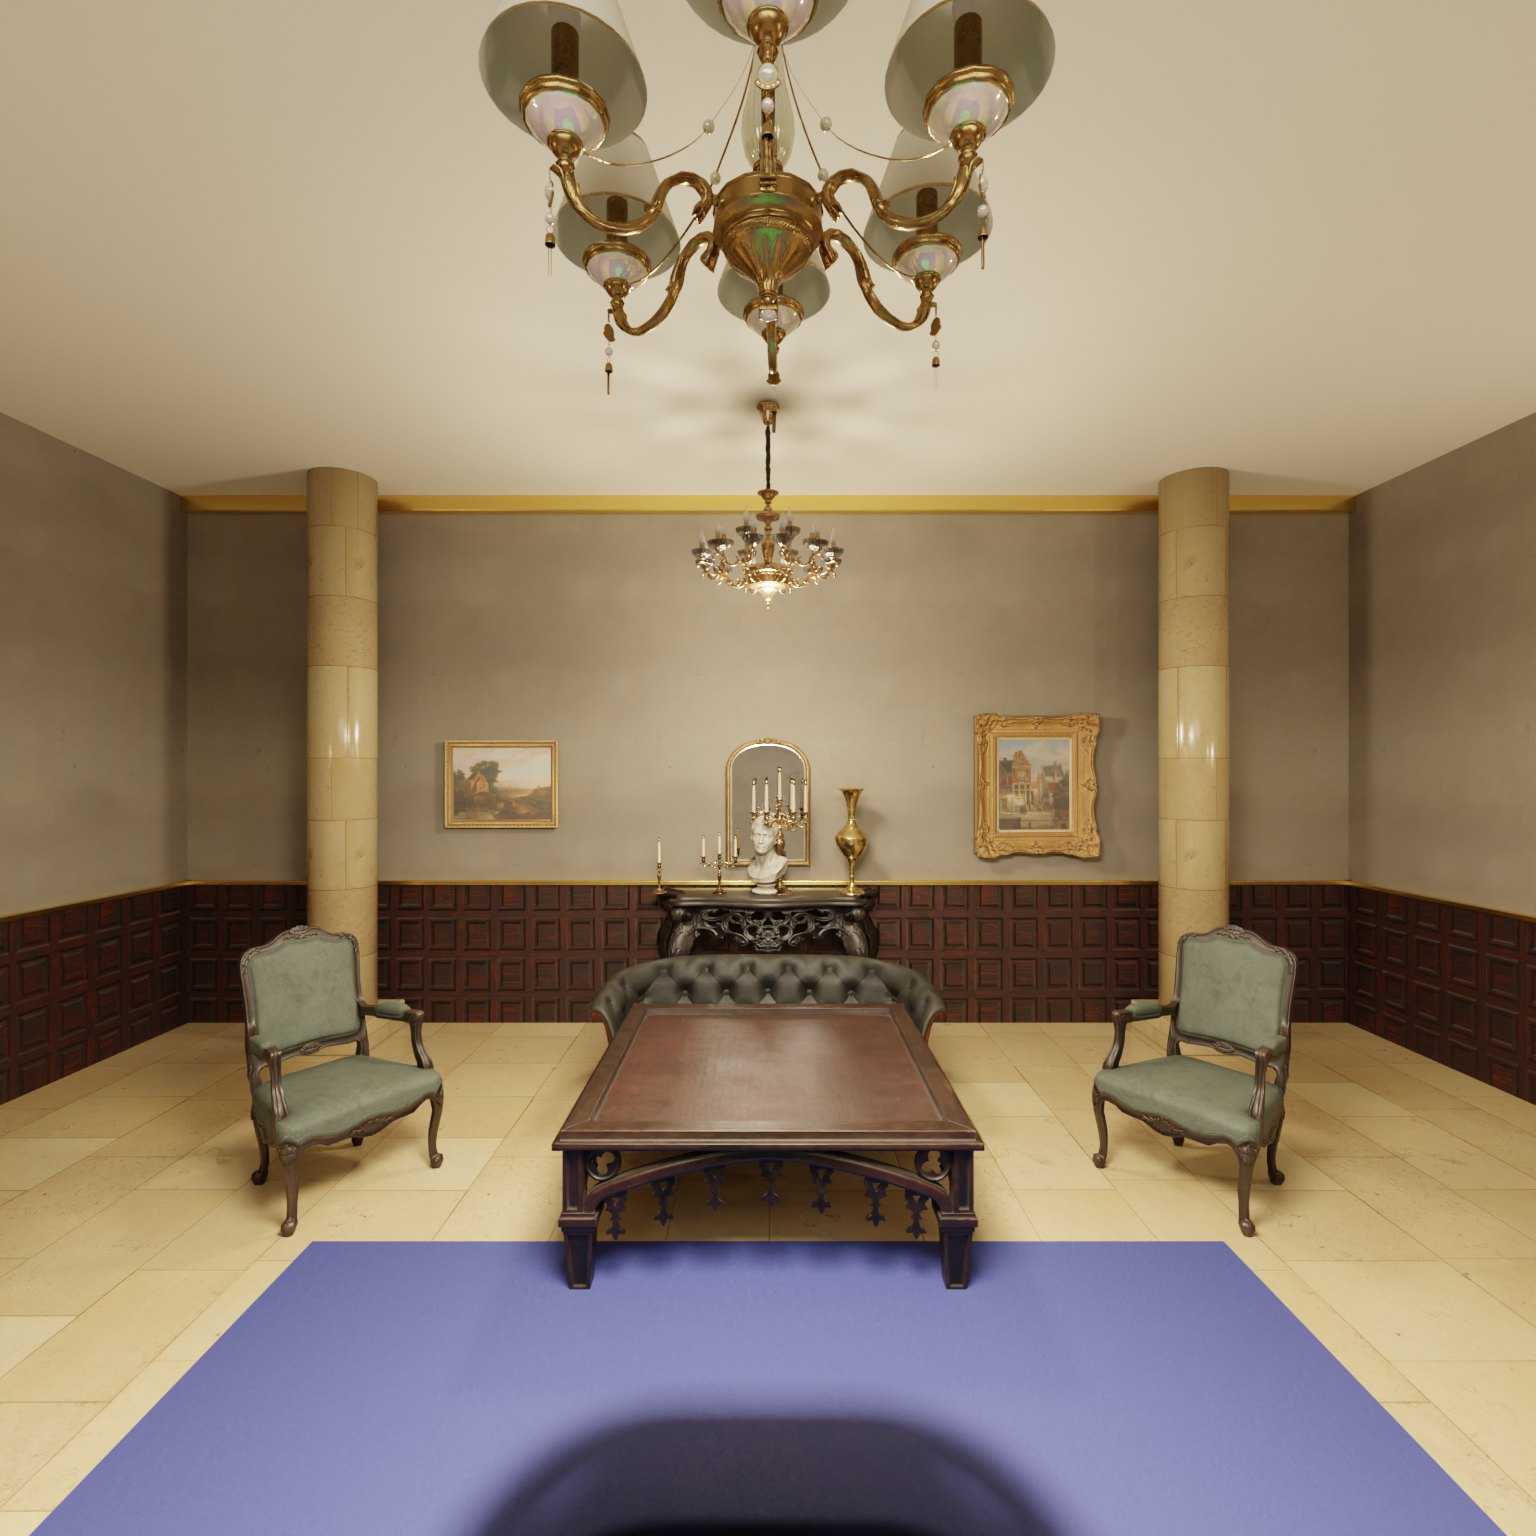
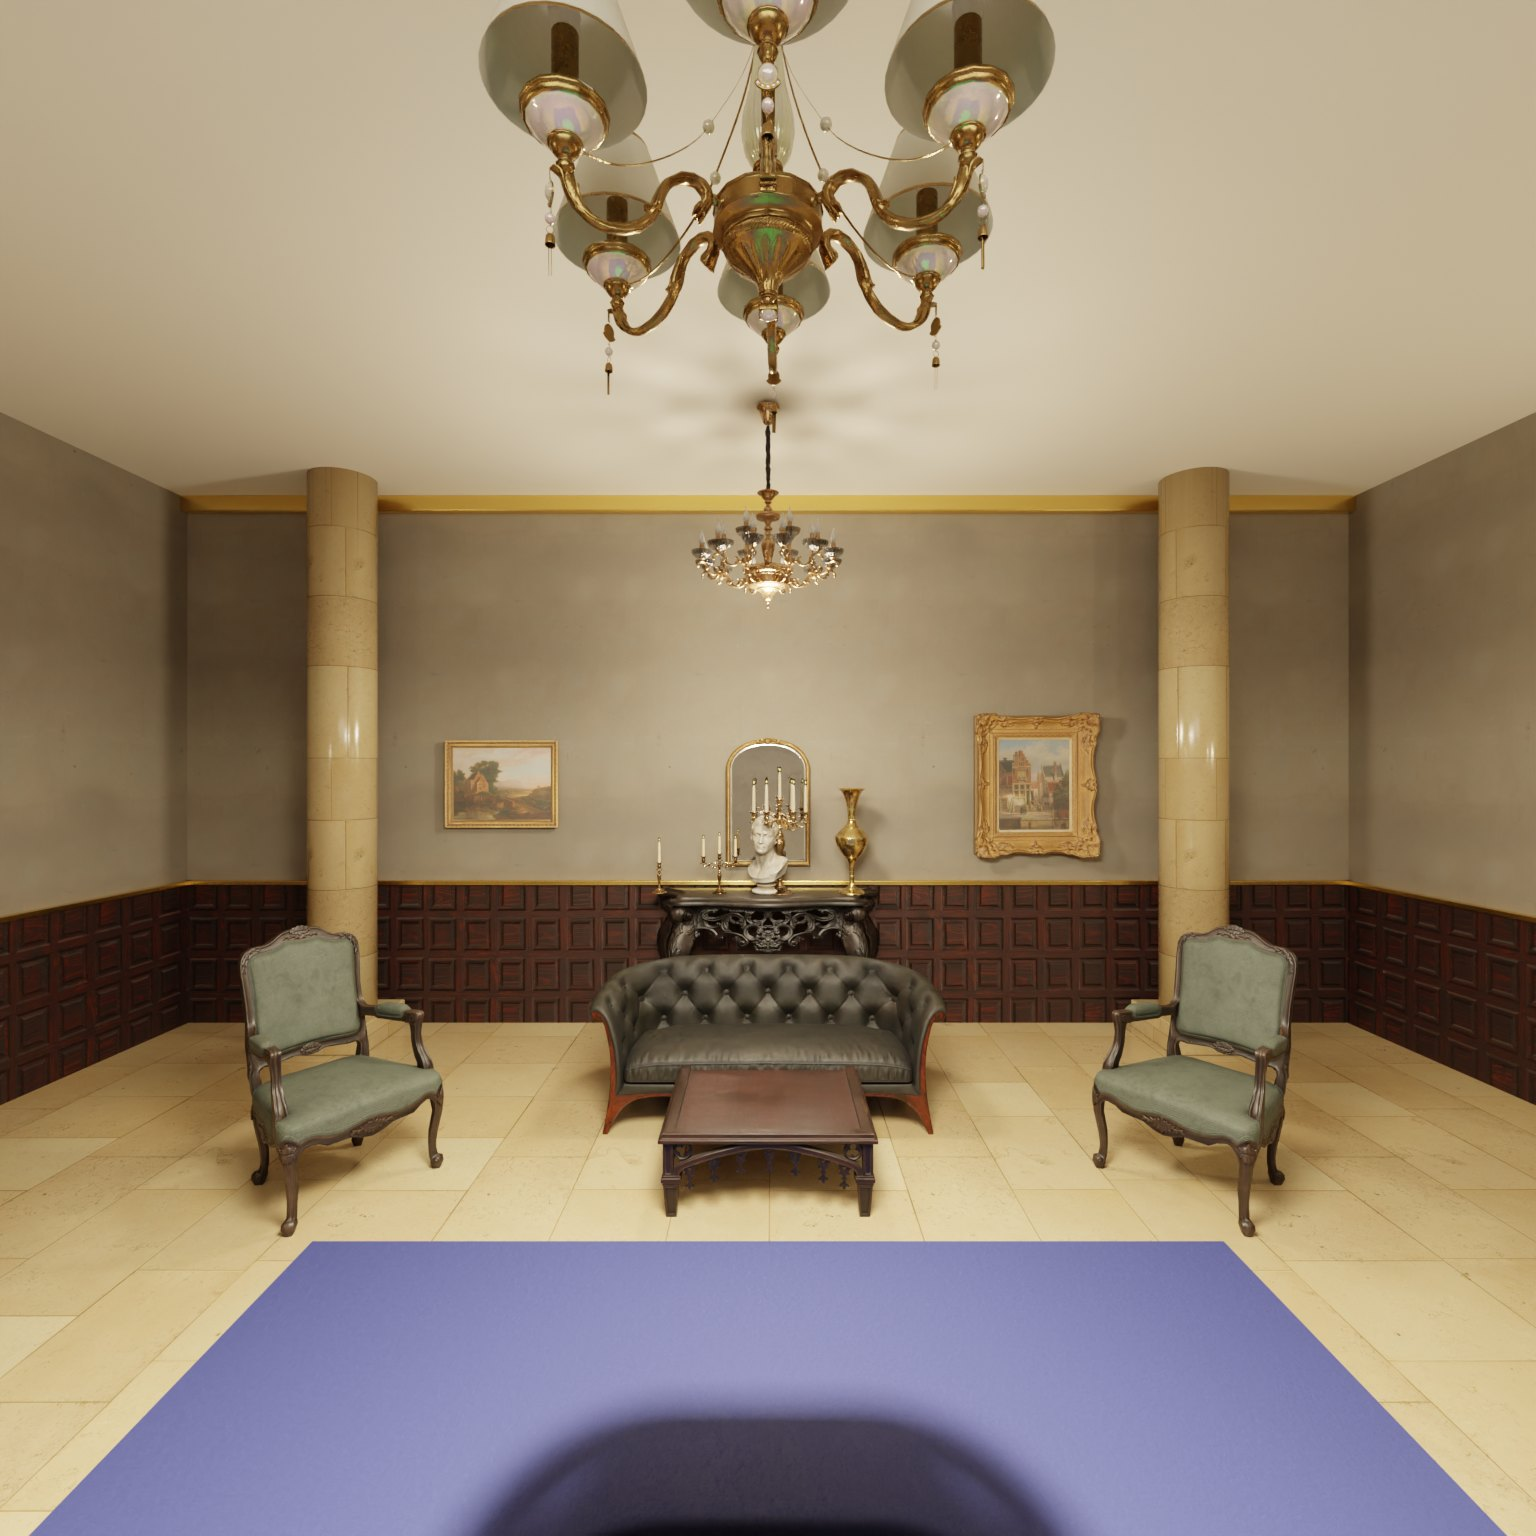
Mansion table: stand-in chairs, matching cam/mic buttons, smaller coffee table
- Seated figures do not wait for the chair model, so a late or failed load left
  them sitting on air. Built chairs now stand in after 2.5s or on a failed
  load, and step aside when the model lands.
- In the table rail, camera and mic are plain icon-and-label buttons like CHAT
  in every layout; the short-landscape cut-corner slab and the whole-button
  offline dim made them read as blank grey tiles.
- The Mansion's coffee table behind the partner is 60% size and tucked up to
  the sofa; the far-wall and floor views are re-rendered.

Changed region(s): [[0.3438, 0.6562, 0.6562, 0.8438]]

diff --git a/apps/web/src/three/cubeVenue.tsx b/apps/web/src/three/cubeVenue.tsx
@@ -9,7 +9,7 @@
  */
 import { useEffect, useMemo, useRef, useState } from 'react';
 import { useFrame, useThree } from '@react-three/fiber';
-import { Box3, type Group, Mesh, MeshStandardMaterial, type Object3D, type PointLight, RepeatWrapping, SRGBColorSpace, TextureLoader, VideoTexture } from 'three';
+import { Box3, BoxGeometry, Group, Mesh, MeshStandardMaterial, type Object3D, type PointLight, RepeatWrapping, SRGBColorSpace, TextureLoader, VideoTexture } from 'three';
 import { flickerAt, glowAt, venueLifeFor } from '../venueLife';
 import { pulseDue } from './framePulse';
 import { fx } from '../fx';
@@ -55,6 +55,57 @@ function ground(obj: Group, floorWorldY: number): void {
   obj.updateMatrixWorld(true);
   const box = new Box3().setFromObject(obj);
   obj.position.y += floorWorldY - box.min.y;
+}
+
+/** How long the seated figures may go without the chair model before built chairs stand in (ms). */
+export const CHAIR_STAND_IN_MS = 2500;
+/** Seat height of the built chair above the floor: the fleet standard the seated figures are posed to. */
+export const SIMPLE_CHAIR_SEAT = 0.49;
+/** Triangles in one built chair (seven boxes). */
+export const SIMPLE_CHAIR_TRIS = 7 * 12;
+
+/**
+ * A plain dining chair out of seven boxes — seat, back, back rail and four legs — facing +z like the
+ * chair model, feet on y = 0. It stands in wherever the model is not loaded (Low quality, or a failed
+ * load), so a seated figure always has something under it.
+ */
+export function buildSimpleChair(): Group {
+  const g = new Group();
+  g.name = 'simple-chair';
+  const wood = new MeshStandardMaterial({ color: '#2a1a12', roughness: 0.7 });
+  const pad = new MeshStandardMaterial({ color: '#3b2a44', roughness: 0.85 });
+  const box = (w: number, h: number, d: number, x: number, y: number, z: number, m: MeshStandardMaterial) => {
+    const mesh = new Mesh(new BoxGeometry(w, h, d), m);
+    mesh.position.set(x, y, z); mesh.castShadow = true; mesh.receiveShadow = true;
+    g.add(mesh);
+  };
+  const S = SIMPLE_CHAIR_SEAT;
+  box(0.5, 0.07, 0.5, 0, S - 0.035, 0, pad); // seat, top at S
+  box(0.5, 0.42, 0.06, 0, S + 0.33, -0.24, pad); // back pad
+  box(0.54, 0.06, 0.07, 0, S + 0.57, -0.24, wood); // top rail
+  for (const [x, z] of [[-0.22, -0.22], [0.22, -0.22], [-0.22, 0.22], [0.22, 0.22]] as const) {
+    const tall = z < 0; // rear legs run up into the back
+    const h = tall ? S + 0.56 : S - 0.07;
+    box(0.05, h, 0.05, x, h / 2, z, wood);
+  }
+  return g;
+}
+
+function addSimpleChairs(host: Group, spots: readonly { x: number; z: number; ry: number }[], skip: (spot: { x: number; z: number; ry: number }) => boolean): Group[] {
+  const out: Group[] = [];
+  for (const spot of spots) {
+    if (skip(spot)) continue;
+    const c = buildSimpleChair();
+    c.rotation.y = spot.ry; c.position.set(spot.x, STUDIO.floorY, spot.z);
+    host.add(c); out.push(c);
+  }
+  return out;
+}
+
+function disposeSimpleChair(g: Group): void {
+  const mats = new Set<MeshStandardMaterial>();
+  g.traverse((o) => { const m = o as Mesh; if (m.isMesh) { m.geometry.dispose(); mats.add(m.material as MeshStandardMaterial); } });
+  mats.forEach((m) => m.dispose());
 }
 
 export function useLocalTod(handNo: number) {
@@ -131,11 +182,21 @@ export default function CubeVenueRoom({ cfg, quality, handNo }: { cfg: CubeVenue
   }, [cfg, quality, lock.tod, invalidate]);
 
   useEffect(() => {
-    if (quality !== 'high' || !propsRef.current) return;
-    let dead = false; const added: Object3D[] = [];
+    if (quality !== 'high' || !propsRef.current) return; // Low seats no figures, so it stands no chairs either
+    let dead = false; const added: Object3D[] = []; const fallback: Group[] = [];
     const ktx2 = new KTX2Loader().setTranscoderPath('/assets/basis/').detectSupport(gl);
     const loader = new GLTFLoader(); loader.setMeshoptDecoder(MeshoptDecoder); loader.setKTX2Loader(ktx2);
     const load = (url: string) => new Promise<import('three').Group>((res, rej) => loader.load(url, (g) => res(g.scene as Group), undefined, rej));
+    // The seated figures do not wait for the chair model, and on a phone it can arrive late or not at all —
+    // which left them sitting on air (owner, 2026-11-13: "my opponents don't have chairs"). If the model is
+    // not in by CHAIR_STAND_IN_MS, or its load fails, built chairs stand in until (and unless) it lands.
+    const standIn = () => {
+      if (dead || !propsRef.current || added.length || fallback.length) return;
+      fallback.push(...addSimpleChairs(propsRef.current, cfg.chairSpots ?? studioSpots, (spot) => hideOwnChair && isOwnSeatSpot(spot, ownDir)));
+      invalidate();
+    };
+    const clearStandIn = () => { for (const g of fallback) { g.parent?.remove(g); disposeSimpleChair(g); } fallback.length = 0; };
+    const standInTimer = window.setTimeout(standIn, CHAIR_STAND_IN_MS);
     void (async () => {
       try {
         // This room's chair spots (a rendered room at a kit-chair venue brings its own); same loop, same own-chair guard.
@@ -143,13 +204,14 @@ export default function CubeVenueRoom({ cfg, quality, handNo }: { cfg: CubeVenue
         const chair = await load(`${CLASSIC}/chair.glb`);
         const lamp = cfg.pendants === false || rendered ? null : await load(`${CLASSIC}/lamp.glb`);
         if (dead || !propsRef.current) return; const host = propsRef.current;
+        window.clearTimeout(standInTimer); clearStandIn();
         for (const spot of CHAIR_SPOTS) { if (hideOwnChair && isOwnSeatSpot(spot, ownDir)) continue; const c = chair.clone(true) as Group; c.rotation.y = spot.ry; c.position.set(spot.x, 0, spot.z); c.traverse((o) => { const m = o as Mesh; if (m.isMesh) { m.castShadow = true; m.receiveShadow = true; } }); host.add(c); ground(c, STUDIO.floorY); added.push(c); }
         if (lamp) for (const x of [-STUDIO.lampX, STUDIO.lampX]) { const l = lamp.clone(true) as Group; l.position.set(x, 0, 0); l.traverse((o) => { const m = o as Mesh; if (m.isMesh) { m.castShadow = false; m.receiveShadow = true; } }); host.add(l); l.updateMatrixWorld(true); const box = new Box3().setFromObject(l); l.position.y += STUDIO.floorY + STUDIO.lampShadeBottom - box.min.y; added.push(l); }
         (window as unknown as { __bwmVenue?: unknown }).__bwmVenue = { id: cfg.id, fx: false, studio: true, room: cfg.slug, props: true, tod: lock.tod };
         invalidate();
-      } catch { /* shell stays */ }
+      } catch { window.clearTimeout(standInTimer); standIn(); /* the shell stays; nobody sits on air */ }
     })();
-    return () => { dead = true; for (const g of added) g.parent?.remove(g); ktx2.dispose(); };
+    return () => { dead = true; window.clearTimeout(standInTimer); for (const g of added) g.parent?.remove(g); clearStandIn(); ktx2.dispose(); };
   }, [cfg, quality, gl, invalidate, lock.tod, hideOwnChair, ownDir, rendered]);
 
   const w = STUDIO.roomX * 2;

diff --git a/apps/web/test/seat-chair-standin.test.ts b/apps/web/test/seat-chair-standin.test.ts
@@ -1,0 +1,70 @@
+/**
+ * Owner, 2026-11-13 (Mansion, iPhone landscape): "my opponents don't have chairs" and "the cam
+ * and mic buttons look pretty odd".
+ *
+ * Chairs: the seated figures do not wait for the chair model, so a late or failed load left them
+ * sitting on air. Built chairs now stand in after CHAIR_STAND_IN_MS or on a failed load, and step
+ * aside when the model lands.
+ * Rail: camera and mic are plain icon-and-label buttons like CHAT in every layout; offline only
+ * the icon and label dim, never the whole button.
+ */
+import { readFileSync } from 'node:fs';
+import { describe, expect, it } from 'vitest';
+import { Box3, type Mesh } from 'three';
+import { CHAIR_STAND_IN_MS, SIMPLE_CHAIR_SEAT, SIMPLE_CHAIR_TRIS, buildSimpleChair } from '../src/three/cubeVenue';
+
+const read = (p: string) => readFileSync(new URL(p, import.meta.url), 'utf8');
+
+describe('the built chair', () => {
+  const chair = buildSimpleChair();
+  chair.updateMatrixWorld(true);
+  const box = new Box3().setFromObject(chair);
+  const meshes: Mesh[] = [];
+  chair.traverse((o) => { if ((o as Mesh).isMesh) meshes.push(o as Mesh); });
+
+  it('stands on the floor and is chair-sized', () => {
+    expect(box.min.y).toBeCloseTo(0, 5);
+    expect(box.max.y).toBeGreaterThan(SIMPLE_CHAIR_SEAT + 0.4);
+    expect(box.max.y).toBeLessThan(1.3);
+    expect(box.max.x - box.min.x).toBeLessThan(0.7);
+  });
+
+  it('has its seat at the height the figures are posed to, and its back behind the sitter', () => {
+    const seat = meshes.find((m) => Math.abs(m.position.y + 0.035 - SIMPLE_CHAIR_SEAT) < 1e-6 && m.position.z === 0);
+    expect(seat).toBeTruthy();
+    // the model faces +z, so the back is at -z
+    expect(box.min.z).toBeLessThan(-0.24);
+    expect(meshes.filter((m) => m.position.y > SIMPLE_CHAIR_SEAT && m.position.z < 0).length).toBeGreaterThanOrEqual(2);
+  });
+
+  it('is cheap and casts a shadow', () => {
+    expect(meshes.length * 12).toBe(SIMPLE_CHAIR_TRIS);
+    expect(SIMPLE_CHAIR_TRIS).toBeLessThan(200);
+    expect(meshes.every((m) => m.castShadow)).toBe(true);
+  });
+});
+
+describe('stand-in wiring', () => {
+  const src = read('../src/three/cubeVenue.tsx');
+  it('stands in after a short wait and on a failed load, and steps aside for the model', () => {
+    expect(CHAIR_STAND_IN_MS).toBeGreaterThanOrEqual(1000);
+    expect(CHAIR_STAND_IN_MS).toBeLessThanOrEqual(5000);
+    expect(src).toContain('window.setTimeout(standIn, CHAIR_STAND_IN_MS)');
+    expect(src).toContain('} catch { window.clearTimeout(standInTimer); standIn();');
+    expect(src).toContain('window.clearTimeout(standInTimer); clearStandIn();');
+  });
+  it('still hides the viewer’s own chair', () => {
+    expect(src).toContain('addSimpleChairs(propsRef.current, cfg.chairSpots ?? studioSpots, (spot) => hideOwnChair && isOwnSeatSpot(spot, ownDir))');
+  });
+});
+
+describe('rail camera and mic', () => {
+  const css = read('../src/uiPass.css');
+  it('drop the cut-corner slab in the short layout too', () => {
+    expect(css).toMatch(/\.ctl-rail \.av-btn, \.table-screen\.short \.ctl-rail \.av-btn \{[^}]*clip-path: none;[^}]*background: transparent;/);
+  });
+  it('offline dims the icon and label, not the button', () => {
+    expect(css).toContain('.ctl-rail .av-bar.offline .av-btn { opacity: 1; filter: none; }');
+    expect(css).toContain('.ctl-rail .av-bar.offline .av-btn > * { opacity: .5; }');
+  });
+});

diff --git a/apps/web/src/uiPass.css b/apps/web/src/uiPass.css
@@ -396,3 +396,15 @@ aside.soc-panel .matchup-picker > h3 + p.soc-muted { display: none; }
 .rw-postgame .rw-moments { list-style: none; margin: 0; padding: 10px 14px 12px; display: grid; grid-template-columns: repeat(auto-fit, minmax(210px, 1fr)); gap: 8px; border-top: 1px solid rgba(255,255,255,.08); font-size: 13px; color: rgba(255,255,255,.9); }
 .rw-postgame .rw-moments li { margin: 0; padding: 9px 11px; border-radius: 9px; background: rgba(255,255,255,.055); box-shadow: inset 3px 0 0 rgba(255,211,90,.75); line-height: 1.3; }
 .rw-postgame .rw-moments.rw-turning li { font: 700 13px/1.25 var(--display); letter-spacing: .06em; text-transform: uppercase; box-shadow: inset 3px 0 0 #b98cff; }
+
+/* ---- Table rail: camera and mic match the chat button (owner, 2026-11-13: on a phone in
+   landscape they "look pretty odd" — two blank grey slabs). The short-layout rule gave them the
+   old tray's cut-corner block, and the offline dim faded the whole button, so over a bright room
+   each one read as an empty grey tile. In the rail they are plain icon-and-label buttons on the
+   rail's own panel, in every layout; offline only the icon and label dim. ---- */
+.ctl-rail .av-btn, .table-screen.short .ctl-rail .av-btn { width: 44px; height: 46px; border-radius: 10px; clip-path: none; background: transparent; box-shadow: none; display: flex; flex-direction: column; align-items: center; justify-content: center; gap: 2px; font-size: 17px; line-height: 1; color: var(--ink); }
+.ctl-rail .av-btn small { margin-top: 0; font-size: 8px; color: var(--muted); }
+.ctl-rail .av-btn.on { background: linear-gradient(180deg, var(--gold-hi), var(--gold-deep)); box-shadow: 0 0 14px rgba(var(--gold-rgb), .6); }
+.ctl-rail .av-btn.on small { color: #1d1204; }
+.ctl-rail .av-bar.offline .av-btn { opacity: 1; filter: none; }
+.ctl-rail .av-bar.offline .av-btn > * { opacity: .5; }

diff --git a/tools/blender/build_room.py b/tools/blender/build_room.py
@@ -472,7 +472,9 @@ def mansion():
     prop('vintage_grandfather_clock_01', (-X + 0.8, 4.0), 90)
     prop('horse_statue_01', (X - 1.6, 4.4), -90, SCALE * 1.4)
     prop('sofa_02', (0, 7.4), 0)
-    prop('gothic_coffee_table', (0, 5.3), 0)
+    # Smaller and tucked up to the sofa: at full size, straight behind the partner's seat, it read as big as
+    # the game table from the sitting view (owner, 2026-11-13: "the table behind my partner is too large").
+    prop('gothic_coffee_table', (0, 5.75), 0, SCALE * 0.6)
     prop('GreenChair_01', (-5.0, 5.4), 55)
     prop('GreenChair_01', (5.0, 5.4), -55)
     prop('antique_ceramic_vase_01', (-7.0, 1.2), 0, SCALE * 1.6)
